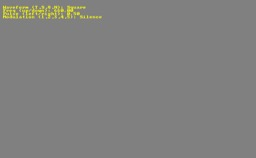
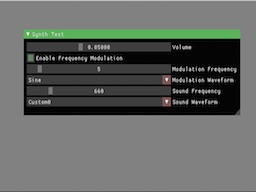
Added imgui UI to SynthTest sample

diff --git a/code/Samples/Synth/SynthTest/SynthTest.cc b/code/Samples/Synth/SynthTest/SynthTest.cc
@@ -4,7 +4,7 @@
 #include "Pre.h"
 #include "Core/App.h"
 #include "Gfx/Gfx.h"
-#include "Dbg/Dbg.h"
+#include "IMUI/IMUI.h"
 #include "Input/Input.h"
 #include "Synth/Synth.h"
 
@@ -18,6 +18,8 @@ public:
     
 private:
     int32 frameCount = 0;
+    bool modFreqEnabled = true;
+    float volume = 0.05f;
     static const int NumTracks = 4;
     SynthOp freqOp;     // frequency modulation
     SynthOp sndOp;      // sound waveform
@@ -31,14 +33,21 @@ OryolMain(SynthTestApp);
 AppState::Code
 SynthTestApp::OnInit() {
     Gfx::Setup(GfxSetup::Window(640, 400, "Oryol Synth Test Sample"));
-    Dbg::Setup();
+    IMUI::Setup();
     Input::Setup();
     SynthSetup synthSetup;
     synthSetup.UseGPUSynthesizer = false;
+    synthSetup.InitialVolume = this->volume;
     Synth::Setup(synthSetup);
-    
+
+    ImGuiStyle& style = ImGui::GetStyle();
+    style.WindowRounding = 0.0f;
+    style.Colors[ImGuiCol_TitleBg] = ImVec4(0.5f, 1.0f, 0.5f, 0.7f);
+    style.Colors[ImGuiCol_TitleBgCollapsed] = ImVec4(0.5f, 1.0f, 0.5f, 0.20f);
+    style.Colors[ImGuiCol_CheckMark] = ImVec4(0.5f, 0.8f, 0.5f, 0.5f);
+
     this->freqOp.Op = SynthOp::Replace;
-    this->freqOp.Wave = SynthOp::Custom0;
+    this->freqOp.Wave = SynthOp::Sine;
     this->freqOp.Freq = 5;
     this->freqOp.Amp = ToAmp(0.5f);
     this->freqOp.Bias = ToAmp(0.25f);
@@ -50,6 +59,9 @@ SynthTestApp::OnInit() {
     
     Synth::AddOp(0, 0, this->freqOp);
     Synth::AddOp(0, 1, this->sndOp);
+
+    // type compatibility test between ImGui and SynthOp::WaveT
+    o_assert_dbg(sizeof(this->sndOp.Wave) == sizeof(int));
     
     return App::OnInit();
 }
@@ -58,129 +70,46 @@ SynthTestApp::OnInit() {
 AppState::Code
 SynthTestApp::OnRunning() {
 
-    const Keyboard& kbd = Input::Keyboard();
-    if (kbd.KeyDown(Key::Escape)) {
-        if (this->sndOp.Op == SynthOp::ModFreq) {
-            this->sndOp.Op = SynthOp::Replace;
+    Gfx::ApplyDefaultRenderTarget();
+    Gfx::Clear(PixelChannel::All, glm::vec4(0.5f));
+
+    static const char* waveFormNames[SynthOp::NumWaves] = {
+        "Const", "Sine", "SawTooth", "Triangle", "Square", "Noise",
+        "Custom0", "Custom1", "Custom2", "Custom3", "Custom4", "Custom5", "Custom6", "Custom7"
+    };
+
+    IMUI::NewFrame();
+    ImGui::Begin("Synth Test", nullptr, ImVec2(540, 180), 1.0f, 0);
+    if (ImGui::SliderFloat("Volume", &this->volume, 0.001f, 1.0f, "%.5f", 3.0f)) {
+        Synth::UpdateVolume(this->volume);
+    }
+    if (ImGui::Checkbox("Enable Frequency Modulation", &this->modFreqEnabled)) {
+        if (this->modFreqEnabled) {
+            this->sndOp.Op = SynthOp::ModFreq;
         }
         else {
-            this->sndOp.Op = SynthOp::ModFreq;
+            this->sndOp.Op = SynthOp::Replace;
         }
         Synth::AddOp(0, 1, this->sndOp);
     }
-    
-    if (kbd.KeyDown(Key::Up)) {
-        if (kbd.KeyPressed(Key::LeftShift)) {
-            this->freqOp.Freq += 2;
+    if (SynthOp::ModFreq == this->sndOp.Op) {
+        if (ImGui::SliderInt("Modulation Frequency", &this->freqOp.Freq, 1, 60)) {
             Synth::AddOp(0, 0, this->freqOp);
         }
-        else {
-            this->sndOp.Freq += 11;
-            if (this->sndOp.Freq > 4400) {
-                this->sndOp.Freq = 4400;
-            }
-            Synth::AddOp(0, 1, this->sndOp);
-        }
-    }
-    if (kbd.KeyDown(Key::Down)) {
-        if (kbd.KeyPressed(Key::LeftShift)) {
-            this->freqOp.Freq -= 1;
-            if (this->freqOp.Freq < 1) {
-                this->freqOp.Freq = 1;
-            }
+        if (ImGui::Combo("Modulation Waveform", (int*) &this->freqOp.Wave, waveFormNames, SynthOp::NumWaves)) {
             Synth::AddOp(0, 0, this->freqOp);
         }
-        else {
-            this->sndOp.Freq -= 11;
-            if (this->sndOp.Freq < 11) {
-                this->sndOp.Freq = 11;
-            }
-            Synth::AddOp(0, 1, this->sndOp);
-        }
     }
-    
-    for (int i = 0; i < 8; i++) {
-        if (kbd.KeyDown(Key::Code(Key::N1 + i))) {
-            if (kbd.KeyPressed(Key::LeftShift)) {
-                this->freqOp.Wave = SynthOp::WaveT(SynthOp::Custom0 + i);
-                Synth::AddOp(0, 0, this->freqOp);
-            }
-            else {
-                this->sndOp.Wave = SynthOp::WaveT(SynthOp::Custom0 + i);
-                Synth::AddOp(0, 1, this->sndOp);
-            }
-        }
+    if (ImGui::SliderInt("Sound Frequency", &this->sndOp.Freq, 11, 4400)) {
+        Synth::AddOp(0, 1, this->sndOp);
     }
-    
-    // modulation
-    /*
-    if (kbd.KeyDown(Key::N1)) {
-        this->modType = "Silence";
-        SynthOp mod;
-        mod.Code = SynthOp::Const;
-        mod.Amp = 0;
-        Synth::AddOp(0, 1, mod);
-        Synth::AddOp(0, 0, this->op);
+    if (ImGui::Combo("Sound Waveform", (int*) &this->sndOp.Wave, waveFormNames, SynthOp::NumWaves)) {
+        Synth::AddOp(0, 1, this->sndOp);
     }
-    if (kbd.KeyDown(Key::N2)) {
-        this->modType = "Constant One";
-        SynthOp mod;
-        mod.Code = SynthOp::Const;
-        Synth::AddOp(0, 1, mod);
-        Synth::AddOp(0, 0, this->op);
-    }
-    if (kbd.KeyDown(Key::N3)) {
-        this->modType = "LowFreq Sine";
-        SynthOp mod;
-        mod.Code = SynthOp::Sine;
-        mod.Freq = 5;
-        Synth::AddOp(0, 1, mod);
-        Synth::AddOp(0, 0, this->op);
-    }
-    if (kbd.KeyDown(Key::N4)) {
-        this->modType = "HiFreq Sawtooth";
-        SynthOp mod;
-        mod.Code = SynthOp::Triangle;
-        mod.Freq = 55;
-        mod.Amp = 0.5f;
-        mod.Bias = 0.5f;
-        Synth::AddOp(0, 1, mod);
-        Synth::AddOp(0, 0, this->op);
-    }
-    */
-    /*
-    if (kbd.KeyDown(Key::N5)) {
-        // ASDR modulation
-        this->modType = "ADSR";
-        SynthOp attack;
-        attack.Code = SynthOp::Const;
-        attack.FadeIn = 200;
-        attack.Amp = Synth::Amp(1.0f);
-        Synth::AddOp(0, 1, attack);
-        SynthOp decay;
-        decay.Code = SynthOp::Const;
-        decay.FadeIn = 4000;
-        decay.Amp = Synth::Amp(0.2f);
-        Synth::AddOp(0, 1, decay, 0.01f);
-        SynthOp release;
-        release.Code = SynthOp::Const;
-        release.FadeIn = 20000;
-        release.Amp = 0;
-        Synth::AddOp(0, 1, release, 0.3f);
-        Synth::AddOp(0, 0, this->op);
-    }
-    */
+    ImGui::End();
 
     Synth::Update();
-    Dbg::Print("\n\n");
-    Dbg::PrintF(" Frequency Modulation (Esc): %s\n\r", this->sndOp.Op == SynthOp::ModFreq ? "on" : "off");
-    Dbg::PrintF(" Sound Wave (1..8): %s\n\r", SynthOp::ToString(this->sndOp.Wave));
-    Dbg::PrintF(" Sound Freq (up/down): %d\n\r", this->sndOp.Freq);
-    Dbg::PrintF(" Freq Mod Wave (Shift 1..8): %s\n\r", SynthOp::ToString(this->freqOp.Wave));
-    Dbg::PrintF(" Freq Mod Freq (Shift up/down): %d\n\r", this->freqOp.Freq);
-    Gfx::ApplyDefaultRenderTarget();
-    Gfx::Clear(PixelChannel::RGBA, glm::vec4(0.5f), 1.0f, 0);
-    Dbg::DrawTextBuffer();
+    ImGui::Render();
     Gfx::CommitFrame();
     this->frameCount++;
     
@@ -192,8 +121,8 @@ SynthTestApp::OnRunning() {
 AppState::Code
 SynthTestApp::OnCleanup() {
     Synth::Discard();
-    Dbg::Discard();
     Input::Discard();
+    IMUI::Discard();
     Gfx::Discard();
     return App::OnCleanup();
 }
